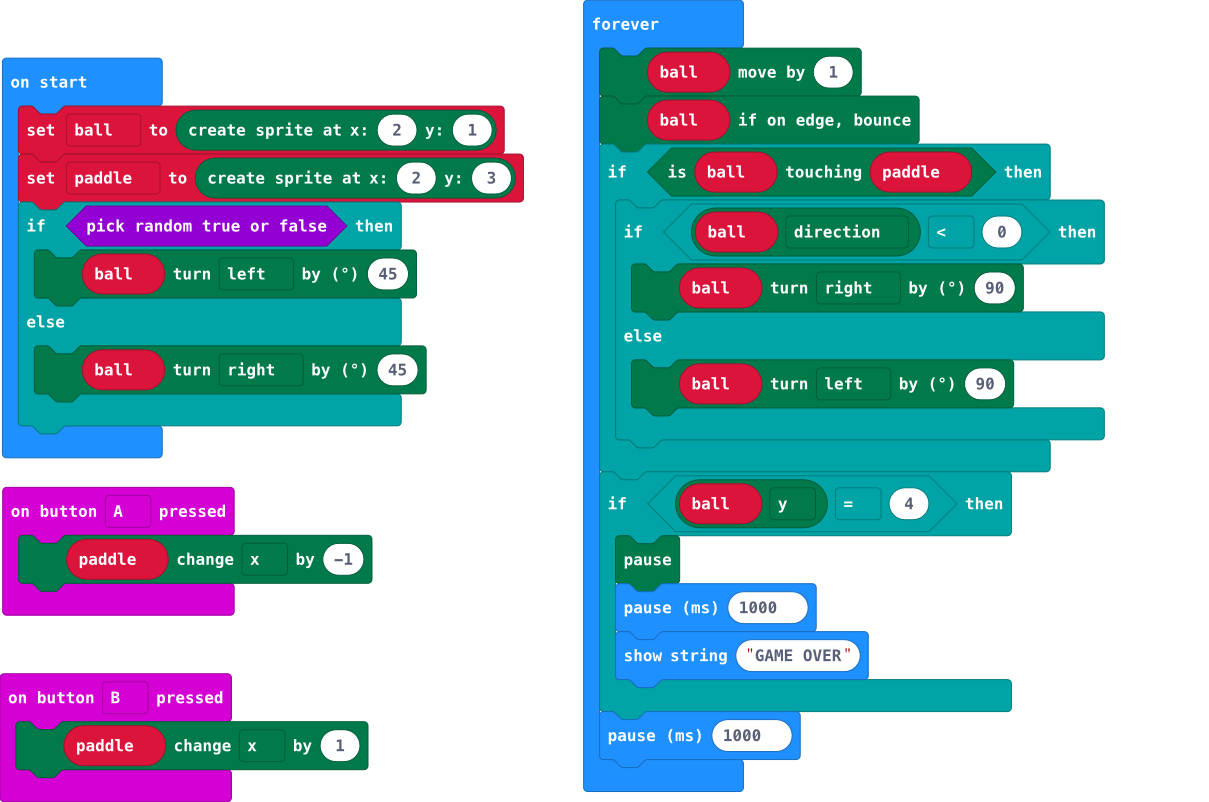
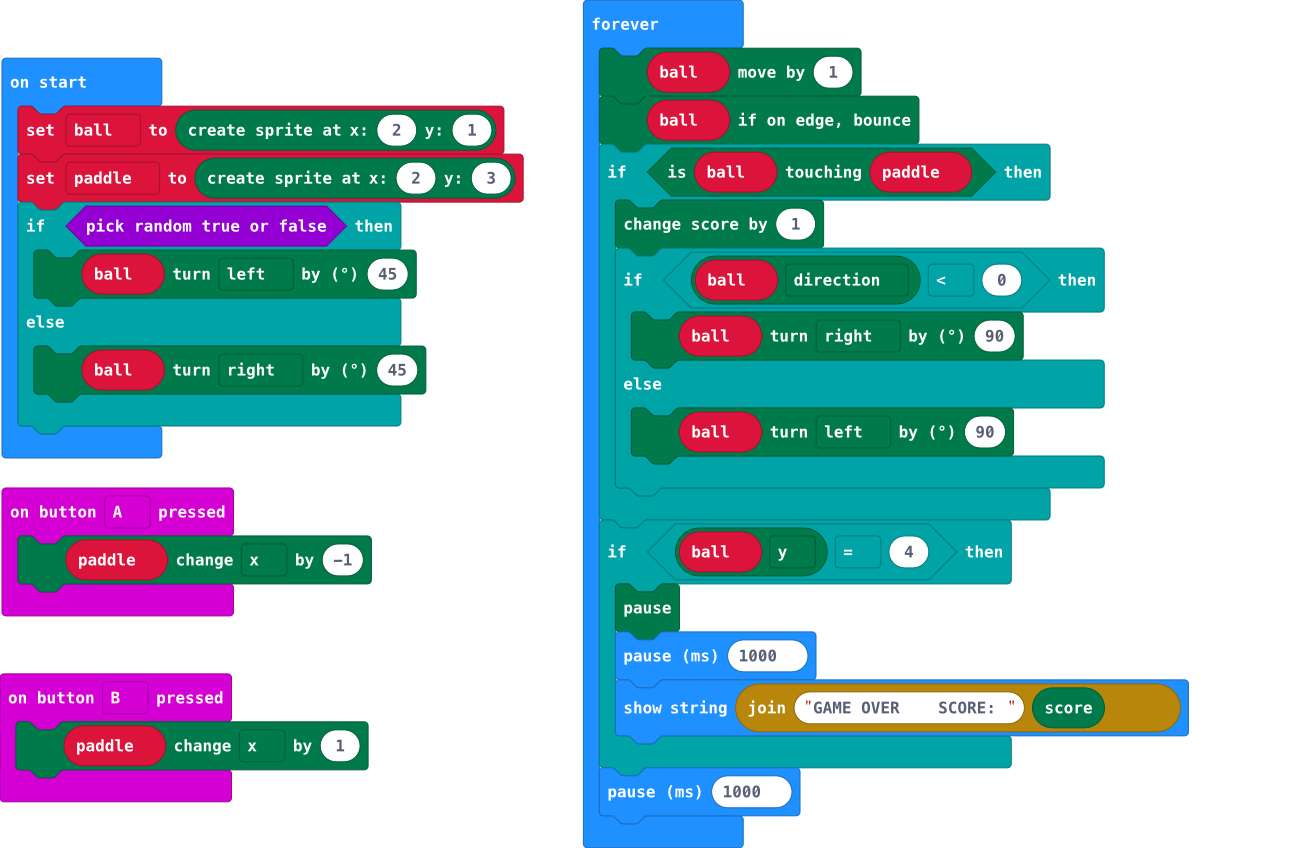
Update main.blocks, main.ts

diff --git a/main.ts b/main.ts
@@ -16,6 +16,7 @@ basic.forever(function () {
     ball.move(1)
     ball.ifOnEdgeBounce()
     if (ball.isTouching(paddle)) {
+        game.addScore(1)
         if (ball.get(LedSpriteProperty.Direction) < 0) {
             ball.turn(Direction.Right, 90)
         } else {
@@ -25,7 +26,7 @@ basic.forever(function () {
     if (ball.get(LedSpriteProperty.Y) == 4) {
         game.pause()
         basic.pause(1000)
-        basic.showString("GAME OVER")
+        basic.showString("GAME OVER    SCORE: " + game.score())
     }
     basic.pause(1000)
 })
